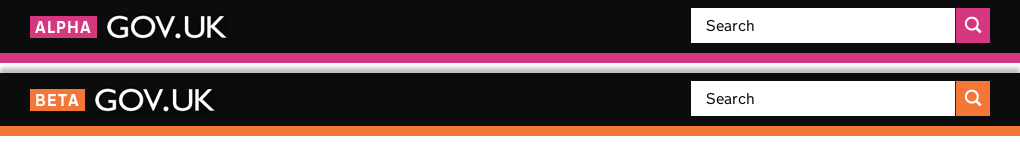
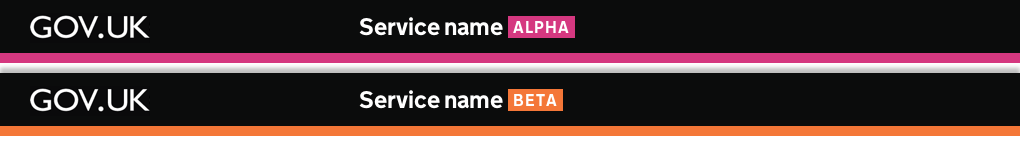
Update images and template guidance

diff --git a/service-manual/design-and-content/headers-and-footers.md b/service-manual/design-and-content/headers-and-footers.md
@@ -27,18 +27,18 @@ Users will need to know if your service is in alpha or beta. Many will not recog
 ### Service title and navigation
 The title of your service should sit in the header, clearly labelling the service to your users. This title should link back to the homepage of your service (which should generally be http://servicename.service.gov.uk/).
 
-[![Example headers showing service title and alpha/beta badges](/service-manual/assets/images/header-footer/not-govuk-no-search.png)](/service-manual/assets/images/header-footer/not-govuk-no-search.png)
+[![Example headers showing service title and alpha/beta badges](/service-manual/assets/images/header-footer/not-govuk-standard.png)](/service-manual/assets/images/header-footer/not-govuk-standard.png)
 
 If necessary a navigation menu should live in the header. This should link to the main areas of your service. This menu should not be more than two lines deep at full width and ideally should contain as few links as possible. This will obviously depend on the complexity of your service but if you are finding you have a lot of links here you should think about the user need for each top level link.
 
-[![Example headers showing navigation](/service-manual/assets/images/header-footer/not-govuk-with-prop.png)](/service-manual/assets/images/header-footer/not-govuk-with-prop.png)
+[![Example headers showing navigation](/service-manual/assets/images/header-footer/not-govuk-nav.png)](/service-manual/assets/images/header-footer/not-govuk-nav.png)
 
 The links in the header should remain constant no matter what state the service is in. Navigation and information that does change throughout the process (eg user account information, shopping basket count, etc) should sit in a separate sub-navigation.
 
 ### Search
 If your service requires a search function this should sit in the header. The search form should be clearly labelled, indicating that it is only searching your service and not the entire GOV.UK domain.
 
-[![Example headers showing search box](/service-manual/assets/images/header-footer/not-govuk-standard.png)](/service-manual/assets/images/header-footer/not-govuk-standard.png)
+[![Example headers showing search box](/service-manual/assets/images/header-footer/not-govuk-search.png)](/service-manual/assets/images/header-footer/not-govuk-search.png)
 
 You should try to not complicate the interface by having multiple search boxes on a single page, however, you may need to use in-page filters. These should be clearly and accessibly labeled and given appropriate ARIA attributes. They should also be visually differntiated from the main search box.
 
@@ -52,7 +52,7 @@ You can only use the GOV.UK logotype if your service is currently available on t
 
 If your service is availble on the service.gov.uk subdomain you may use the GOV.UK logotype prefixed with an alpha or beta label. You may not use the crown until your service has passed the standard and has been declared live by the Go Live panel. The logotype should link back to [GOV.UK](https://www.gov.uk/)
 
-[![Example headers showing GOV.UK logo with navigation](/service-manual/assets/images/header-footer/govuk-with-prop.png)](/service-manual/assets/images/header-footer/govuk-with-prop.png)
+[![Example headers showing GOV.UK logo with navigation](/service-manual/assets/images/header-footer/govuk-search-nav.png)](/service-manual/assets/images/header-footer/govuk-search-nav.png)
 
 ### Using the crown
 Once your service has passed the standard and has been declared live you may use the crown.
@@ -63,14 +63,5 @@ The footer of your service should follow the design patterns used by the GOV.UK 
 The footer should also state the appropriate copyright and licence notices.
 
 ## Templates and styles
-You can access the templates and styles in the static repositiory on the GDS Github account. They are also available via HTTP.
-
-We have created 4 templates for both alpha and beta services, showing the various ways the header can work with a combination of elements.
-
-| standard | alpha | beta | GOV.UK alpha | GOV.UK beta |
-| no search | alpha | beta | GOV.UK alpha | GOV.UK beta |
-| service title and navigation |   |   | GOV.UK alpha | GOV.UK beta |
-| service title no search |   |   | GOV.UK alpha | GOV.UK beta |
-
-You should obviously tailor the header to suit your service based on the guidelines above.
+If need access to the templates and styles please make a request via [our feedback form](/feedback).
 
